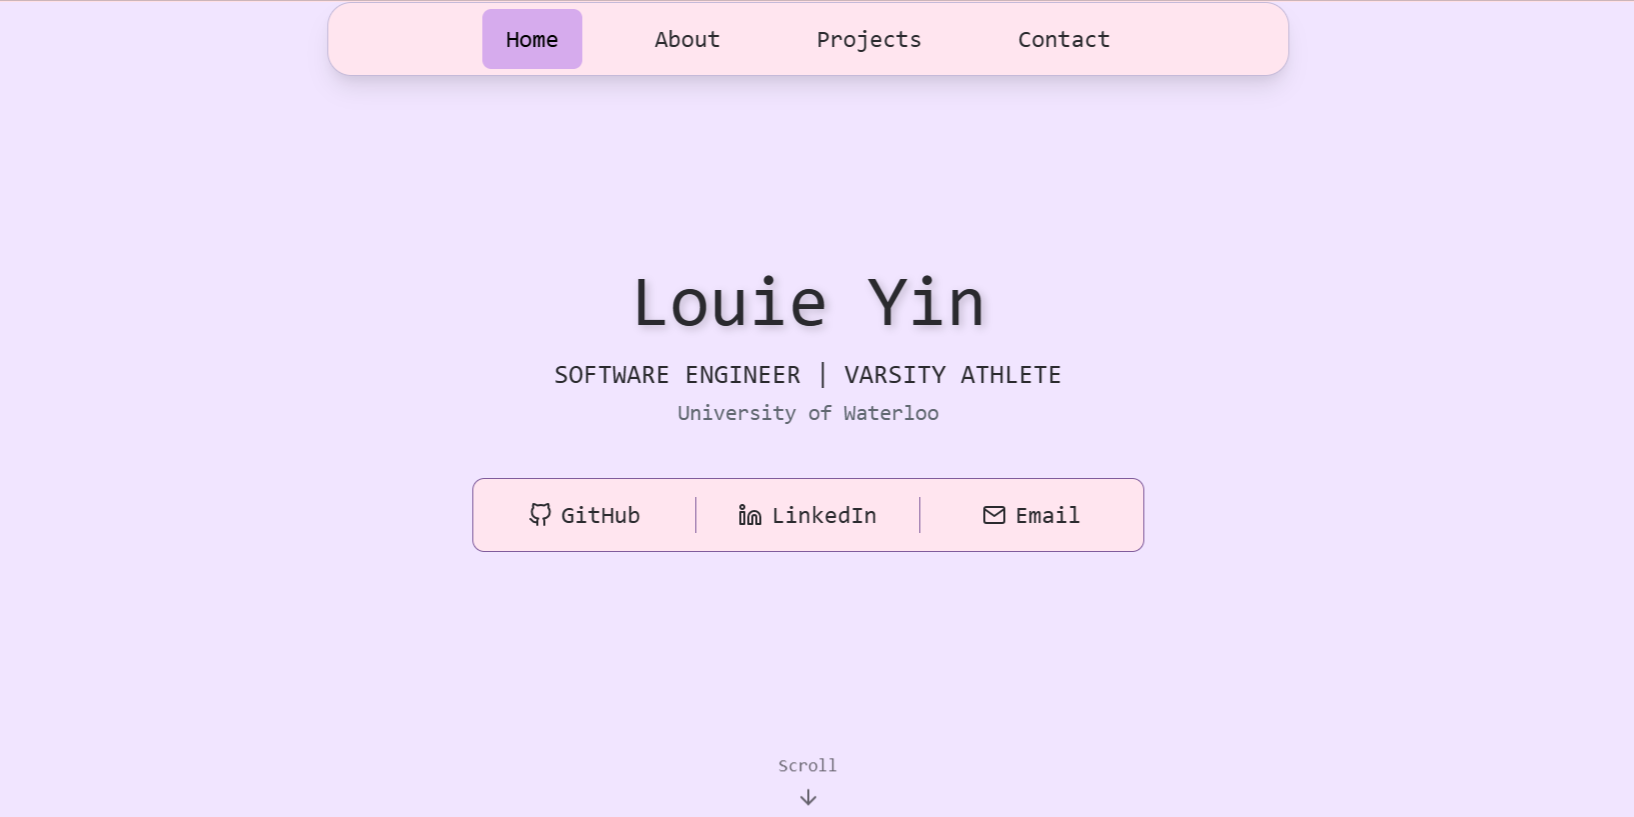
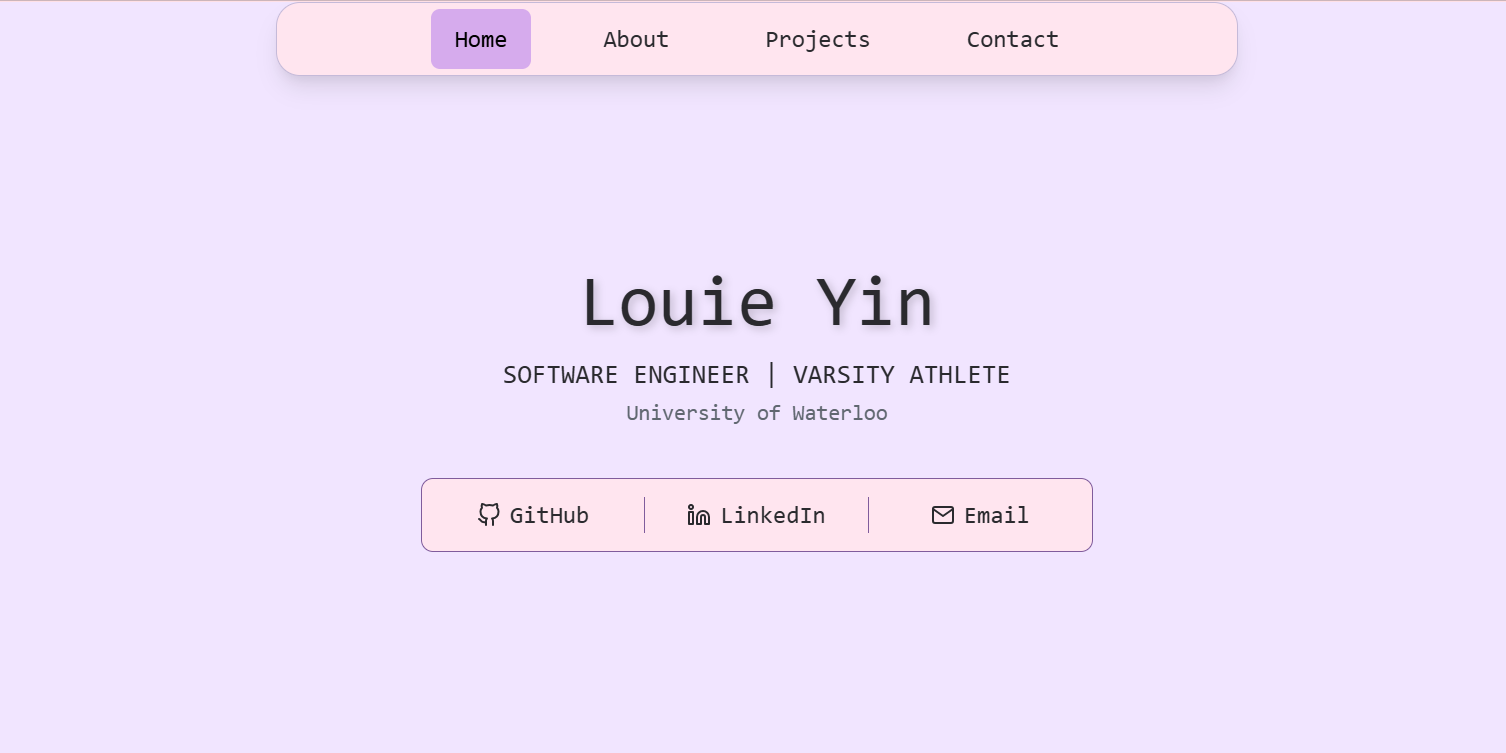
projects border + image fix

diff --git a/src/styles/modules/homePage.module.css b/src/styles/modules/homePage.module.css
@@ -226,7 +226,7 @@
   transition: all 0.2s ease;
 }
 
-.projectsCardText:hover {
+.projectsCard:hover .projectsCardText {
   border-top: 1px solid var(--border2);
 }
 
